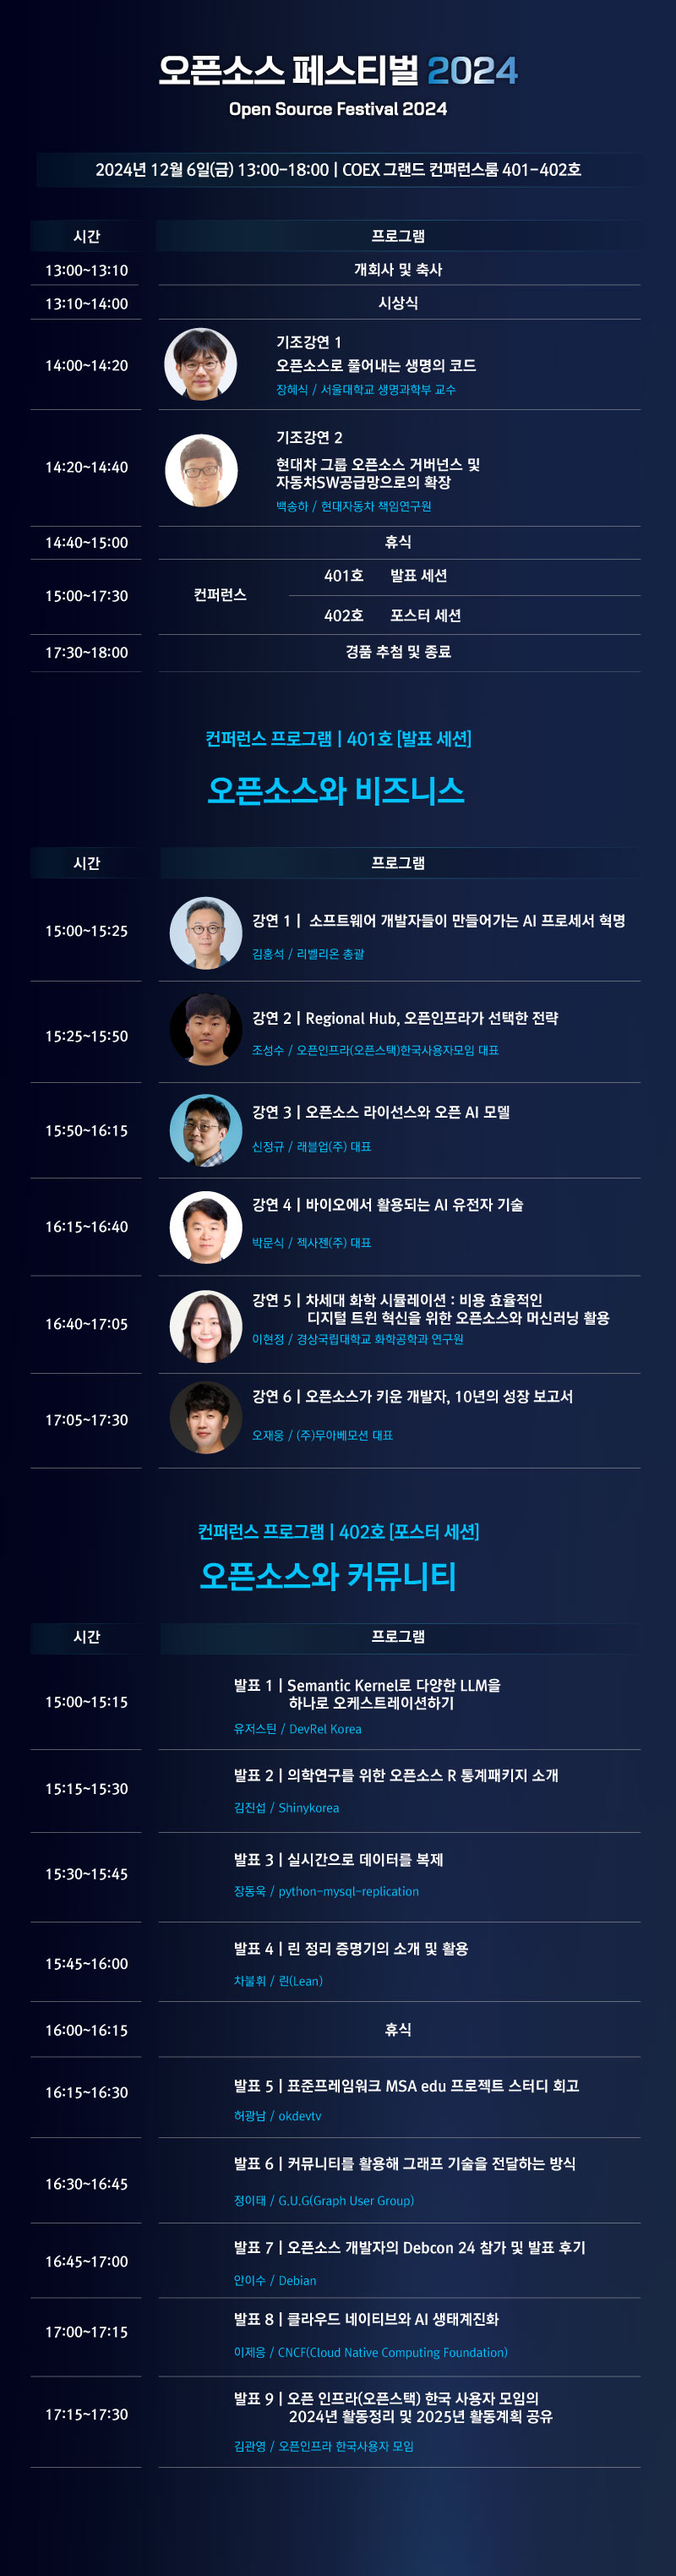
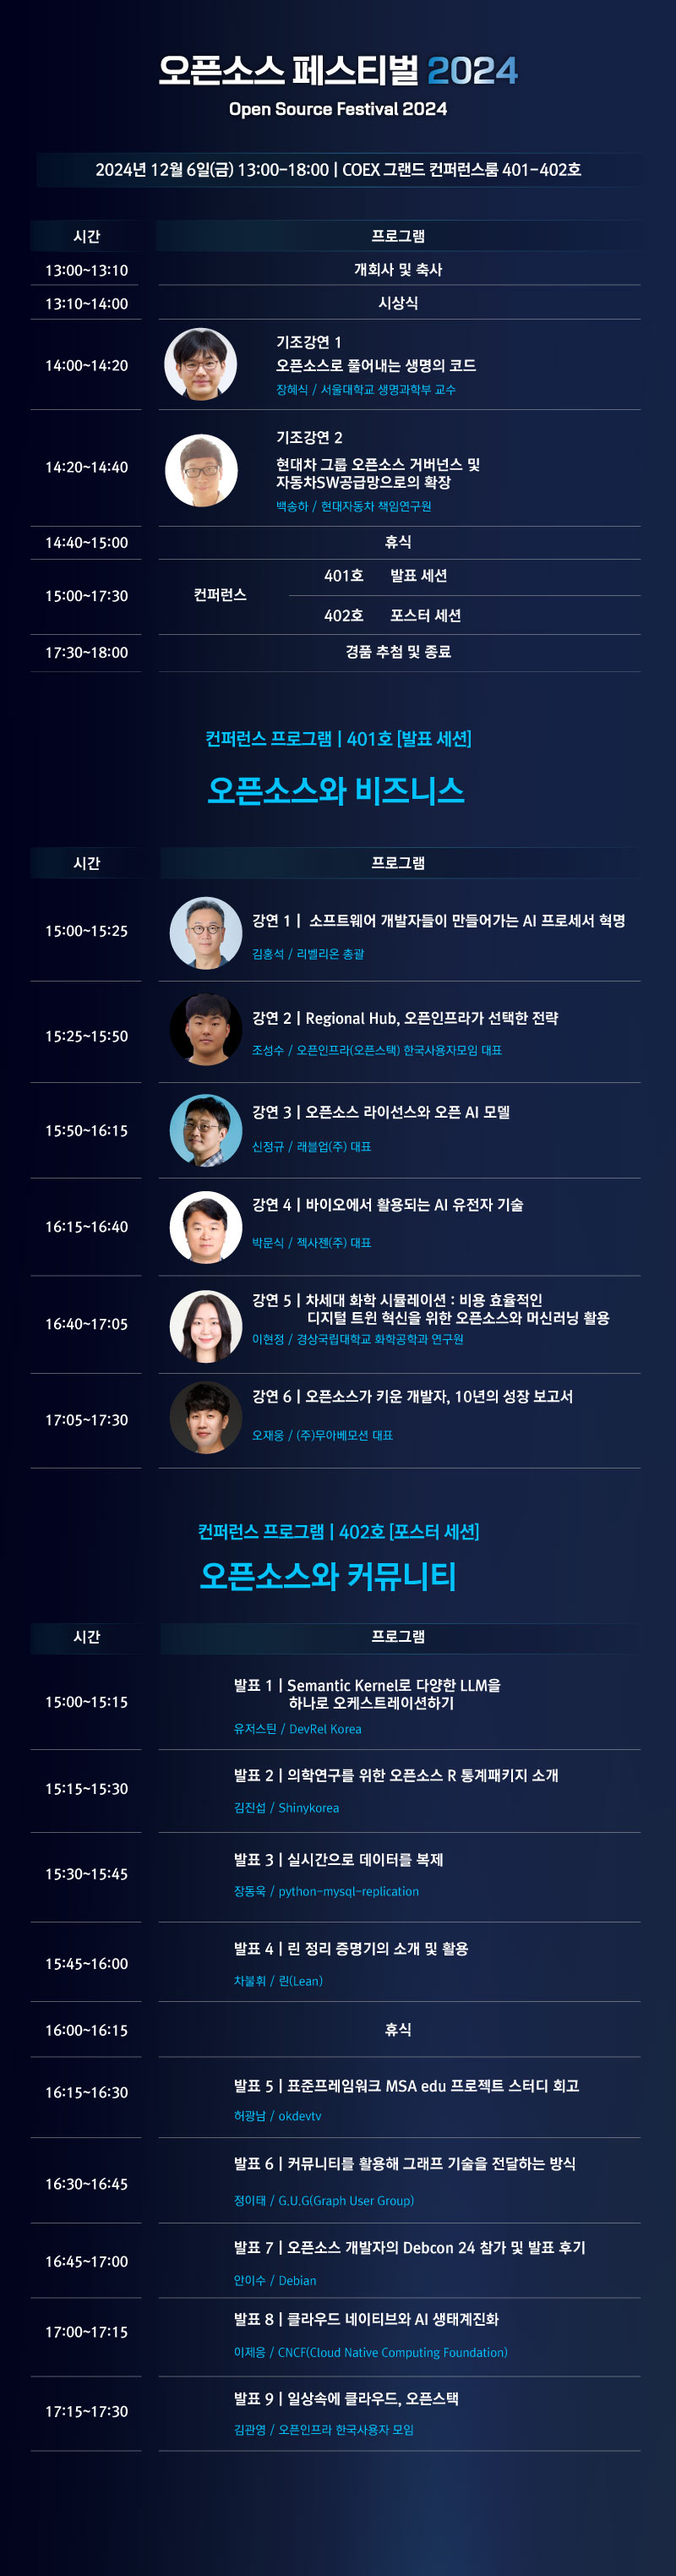
발표9번 제목 수정 / 프로그램 이미지 변경

Changed region(s): [[0.3438, 0.9042, 0.8125, 0.9665], [0.625, 0.4053, 0.6562, 0.4365], [0.1562, 0.9353, 0.1875, 0.9665]]

diff --git a/src/pages/Speakers/Speakers.js b/src/pages/Speakers/Speakers.js
@@ -228,7 +228,7 @@ export const speakersData = {
             imgUrl: 'https://ossfestival.kr/assets/img/speakers/김관영.jpg',
             profileList: ['약력1','약력2','약력3'],
             profileDesc: '',
-            subject:'오픈 인프라(오픈스택) 한국 사용자 모임의 2024년 활동정리 및 2025년 활동계획 공유',
+            subject:'일상속에 클라우드, 오픈스택',
         },
     }
 }
